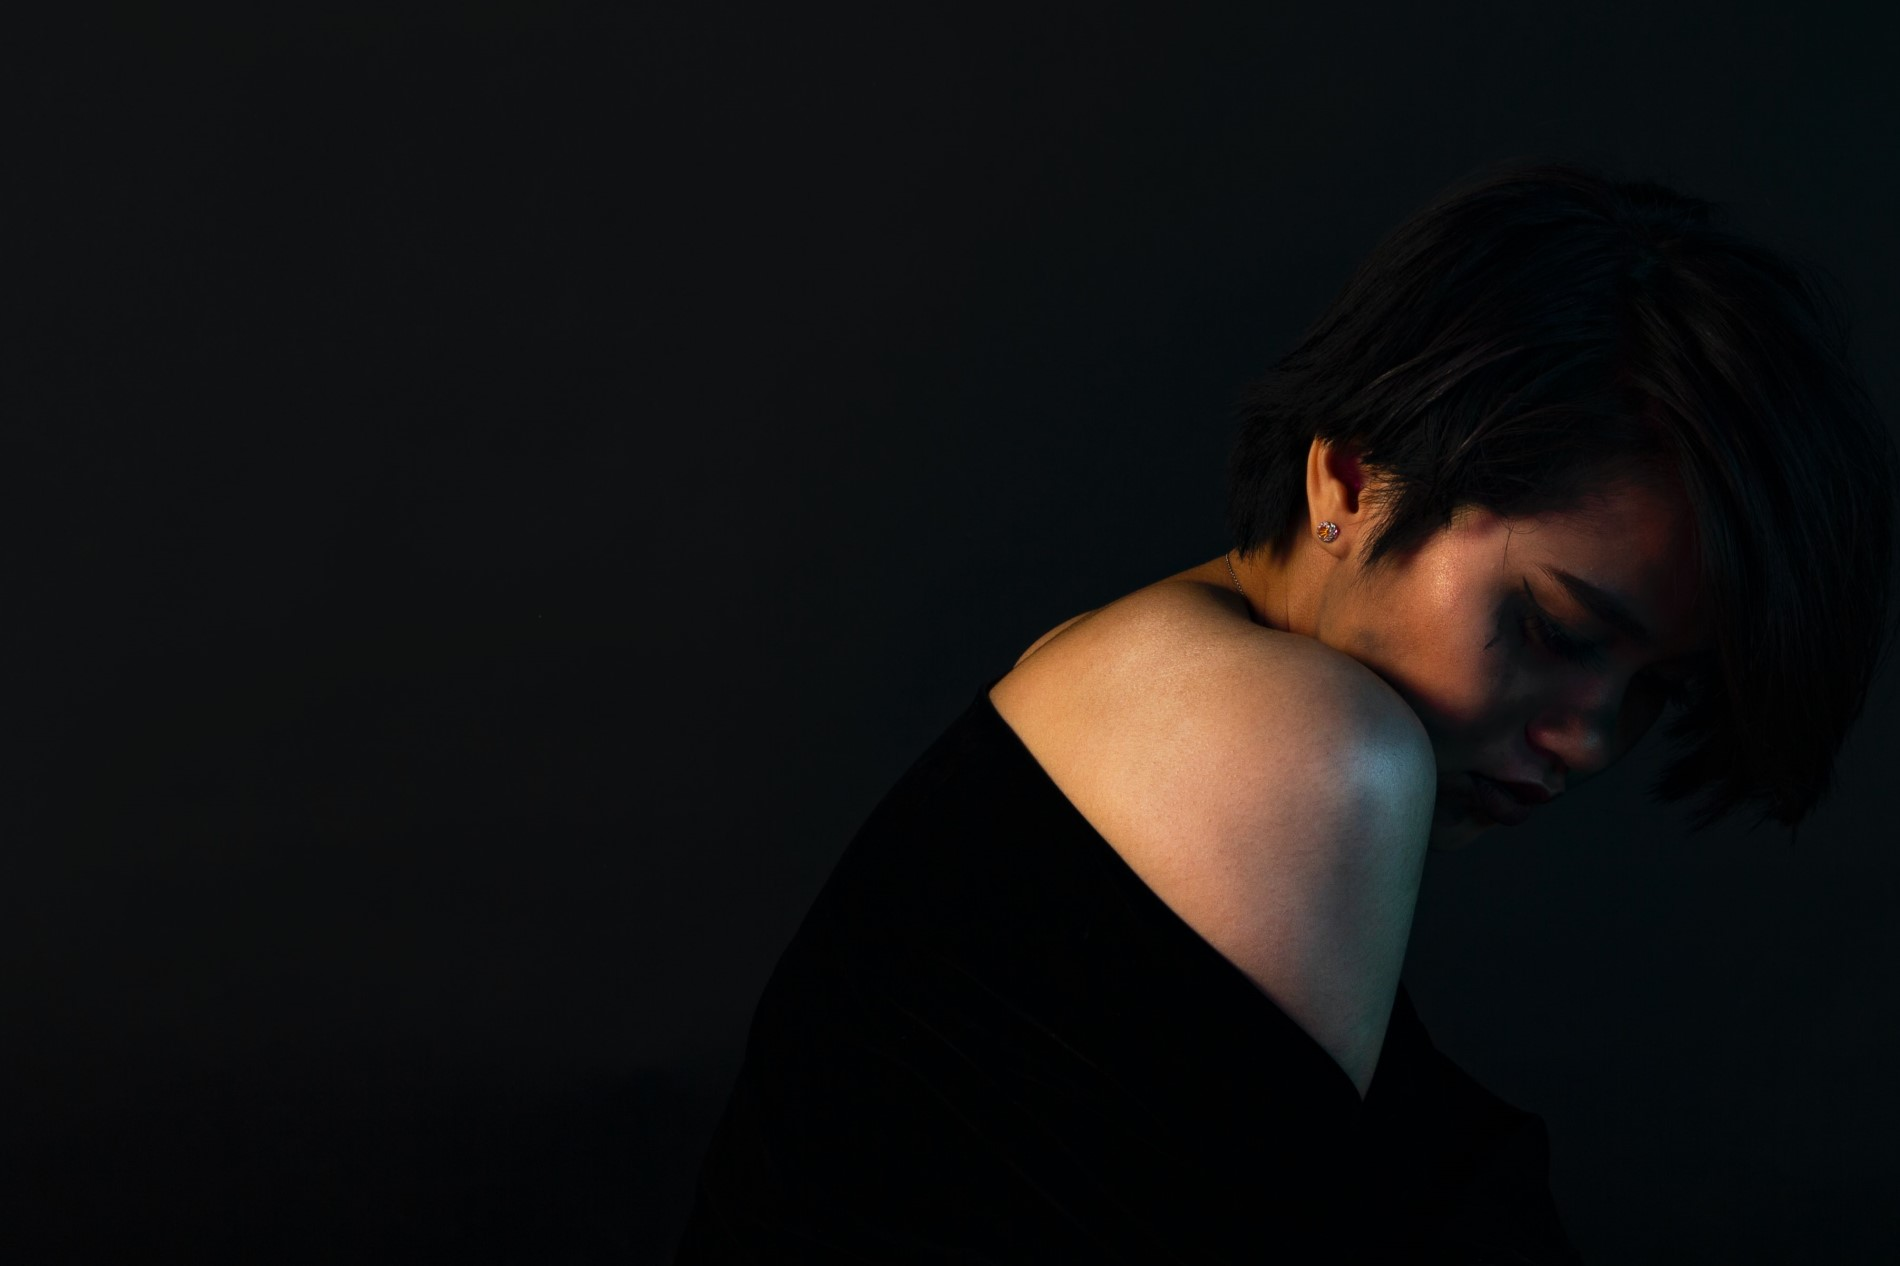
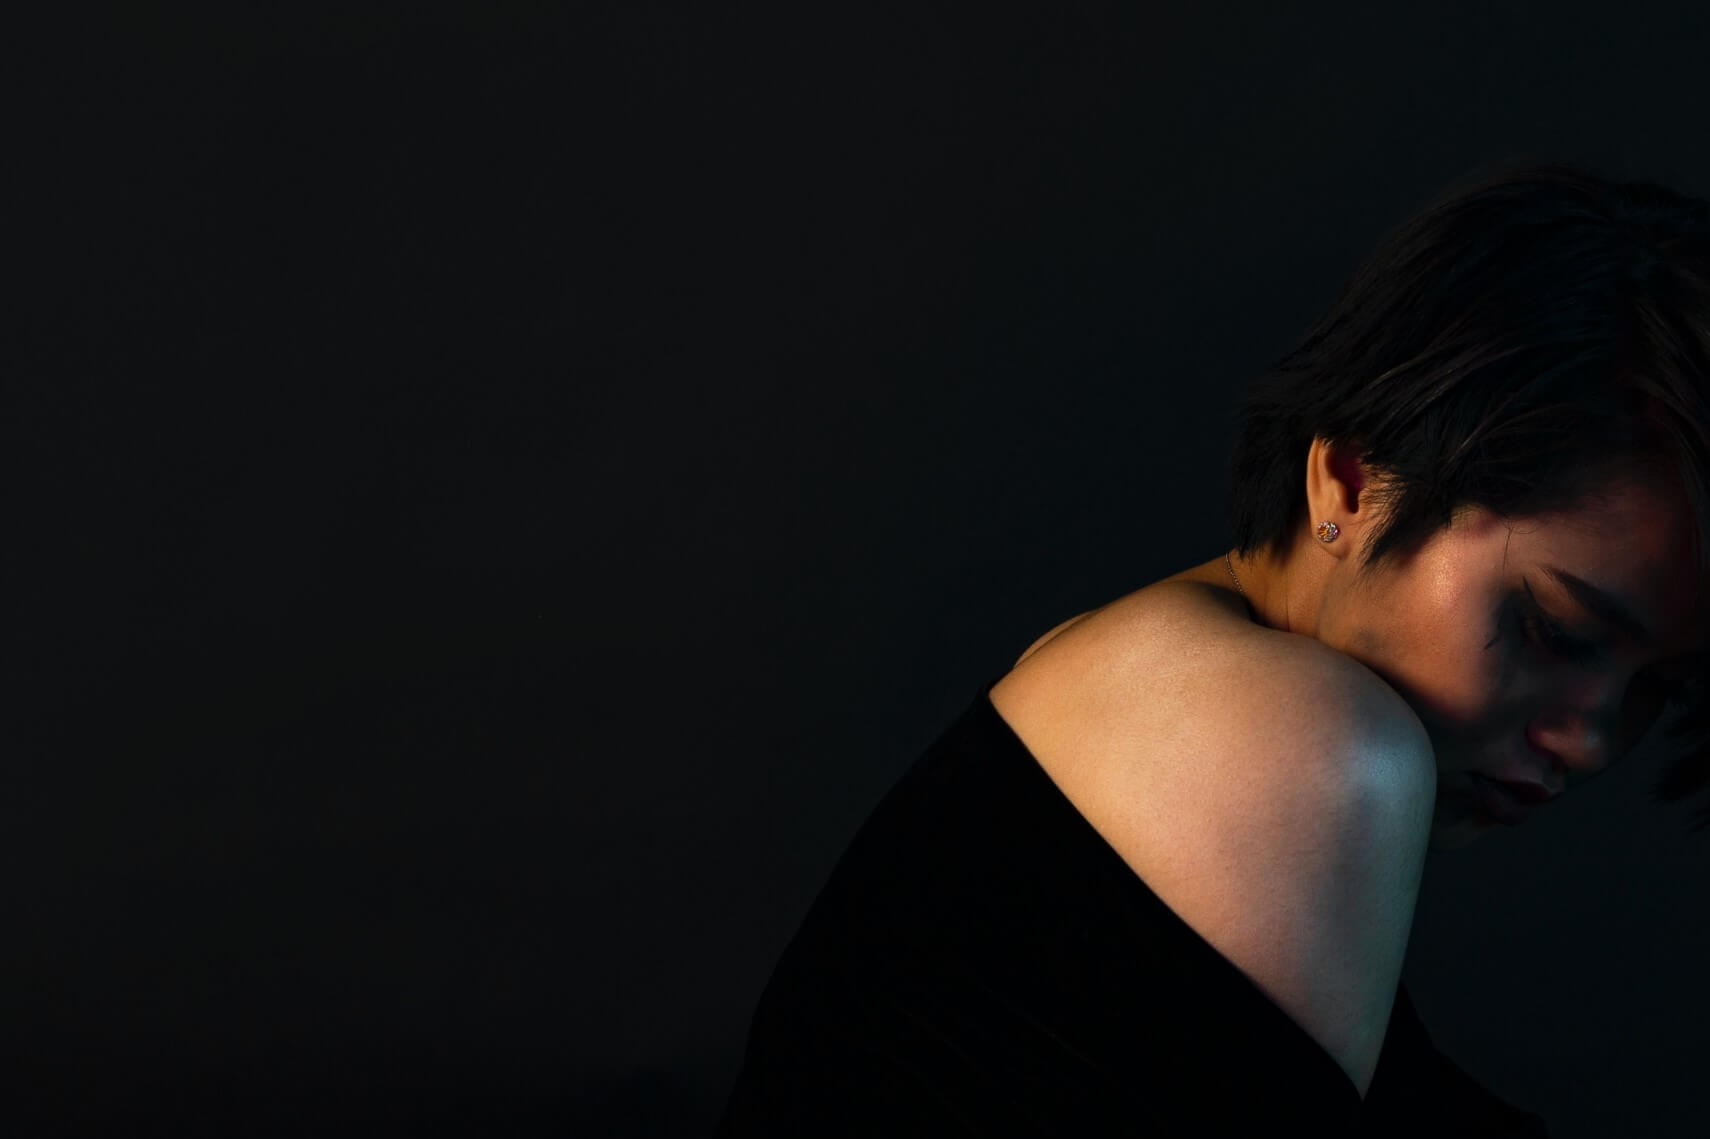
Images optimization and accessibility

Changed region(s): [[0.5269, 0.338, 0.9918, 0.9526], [0.8678, 0.676, 0.8988, 0.7068]]

diff --git a/index.html b/index.html
@@ -5,7 +5,7 @@
 		<meta charset="utf-8">
 		<meta name="viewport" content="width=device-width, initial-scale=1, shrink-to-fit=no">
 		<meta property="og:image" content="assets/me.png"/>
-		<meta property="og:description" content="On this page I present my experience in researching and designing technology."/>
+		<meta property="og:description" content="Here is my experience in researching and designing technology!"/>
 		<meta property="og:title" content="Alexandra Pometko's portfolio"/>
 
 		<!-- Bootstrap, icon, and custom CSS -->
@@ -47,7 +47,7 @@
 					<div class="col-sm col-md-6">
 						<h1 class="display-3">Hi there! I'm Alexandra.</h1>
 						<p><i>User Researcher • UX Designer • Cognitive Engineer</i></p>
-						<p>I create experiences with technology that have a positive impact on people and society. </p>
+						<p>I create experiences with technology that seek to have a positive impact on people and society. </p>
 					</div>
 				</div>
 			</div>
@@ -82,10 +82,10 @@
 					<div class="caption">
 					  <div class="caption-content">
 						<div class="h2">Play-Food technology</div>
-						<p class="mb-0">User research • Participatory co-design • Speculative design</p>
+						<p class="mb-0"><i>User research • Participatory co-design • Speculative design</i></p>
 					  </div>
 					</div>
-					<img class="img-fluid" src="assets/playfood.png" alt="photography a man and a woman sitting at a table drinking from illustrated colored cups">
+					<img class="img-fluid" src="assets/salad.png" alt="a holographic piece of lettuce in a bowl, while a hand is holding a camera filming food">
 				  </a>
 				</div>
 				<div class="col-lg-6">
@@ -93,7 +93,7 @@
 					<div class="caption">
 					  <div class="caption-content">
 						<div class="h2">Playful exercising</div>
-						<p class="mb-0">User research • UX / UI design • Usability evaluation</p>
+						<p class="mb-0"><i>User research • UX / UI design • Usability evaluation</i></p>
 					  </div>
 					</div>
 					<img class="img-fluid" src="assets/jordan-opel-run2.jpg" alt="man leaping forward with a forest in the back">
@@ -104,7 +104,7 @@
 					<div class="caption">
 					  <div class="caption-content">
 						<div class="h2">A pain-tracking companion</div>
-						<p class="mb-0">Product definition • UX Writing • UX design</p>
+						<p class="mb-0"><i>Product definition • UX Writing • UX design</i></p>
 					  </div>
 					</div>
 					<img class="img-fluid" src="assets/syarafina-yusof-pain.jpg" alt="woman looking down in front of a black background">
@@ -115,7 +115,7 @@
 					<div class="caption">
 					  <div class="caption-content">
 						<div class="h2">Social drones</div>
-						<p class="lead mb-0">Literature and market review • User research • Speculative design</p>
+						<p class="lead mb-0"><i>Literature and market review • User research • Speculative design</i></p>
 					  </div>
 					</div>
 					<img class="img-fluid" src="assets/drone-spotlight.png" alt="photograph of people dancing on a beach with an illustrated drone projecting visuals around them">

diff --git a/css/stylesheet.css b/css/stylesheet.css
@@ -92,6 +92,10 @@ li {
 #myBtn:hover {
   background-color: blue; /* Add a dark-grey background on hover */
 }
+
+.carousel-caption {
+	background-color: rgba(0, 0, 0,0.5);
+}
 /* Portfolio CSS*/
 
 .portfolio-item {
